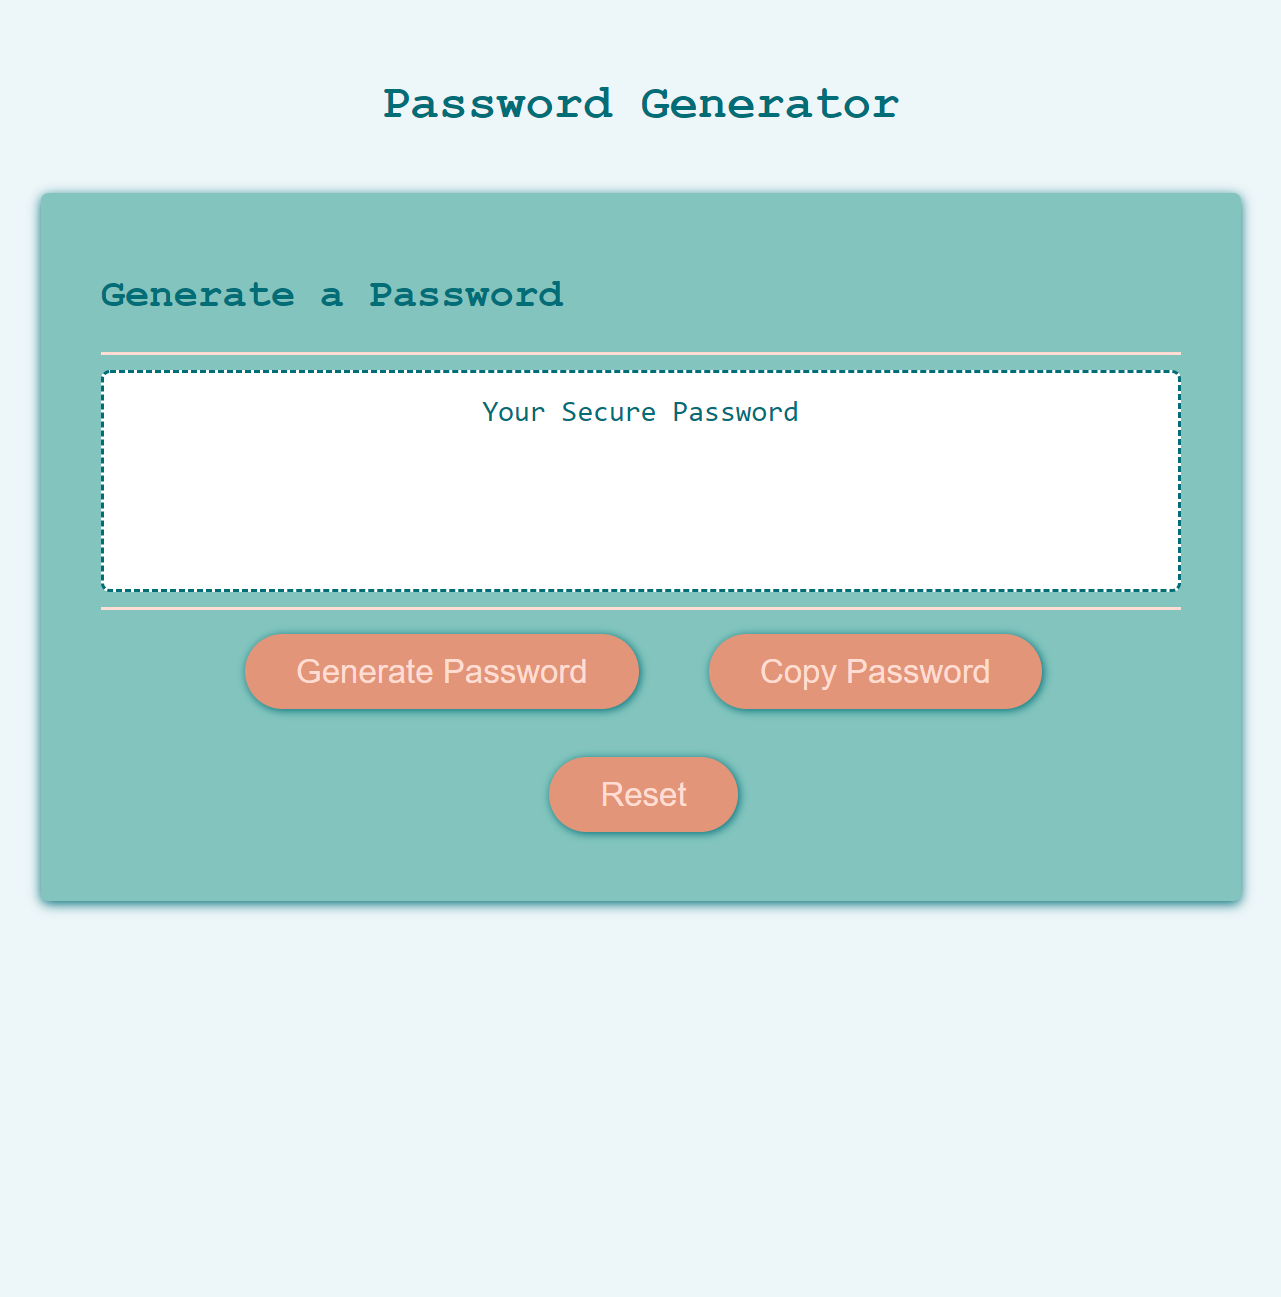
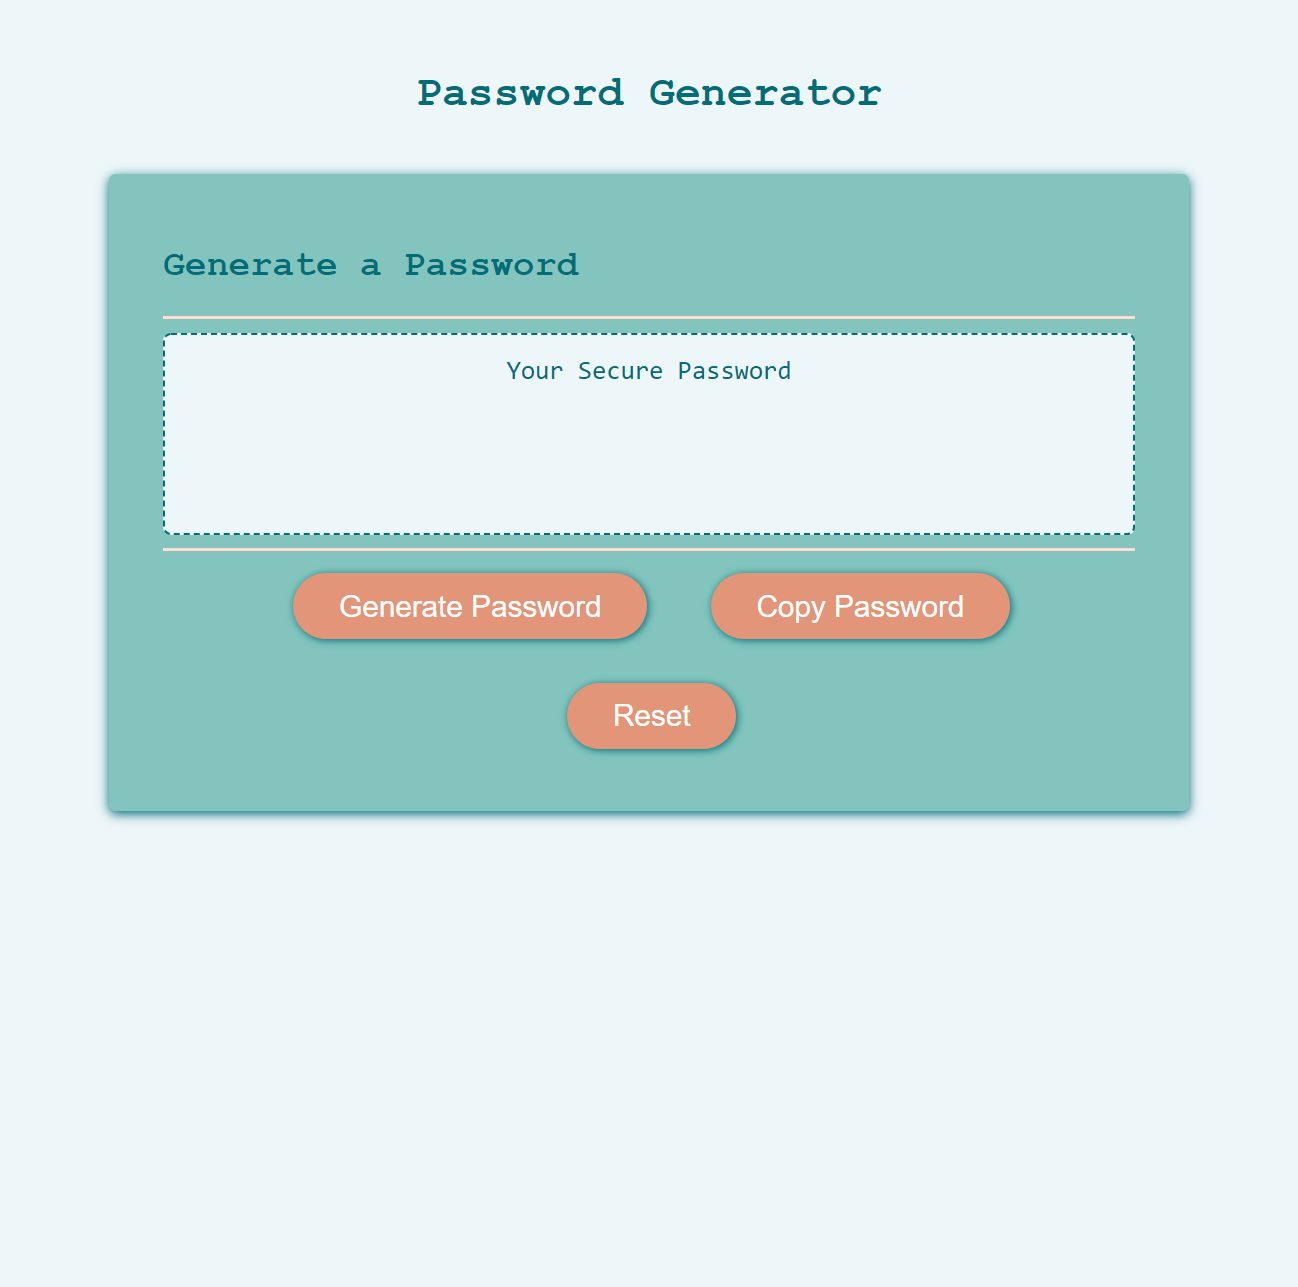
added validation to js if user put blanks for all y/n questions, fixed CSS font color for password

Changed region(s): [[0.0, 0.1243, 0.9992, 0.7148], [0.281, 0.0622, 0.7182, 0.0932]]

diff --git a/script.js b/script.js
@@ -45,6 +45,11 @@ function generatePassword() {
         generatePassword();
     }
 
+    if(includeLowercase === "" && includeUppercase === "" && includeNumbers === "" && includeSpecialChar === "") {
+      alert("You must choose 'Y' for at least one type of character to generate password. Please try again.");
+      generatePassword();
+  }
+
     var charactersInPassword = "";
     var countPasswordCharacters = passwordLength;
 
@@ -82,7 +87,7 @@ function generatePassword() {
 };
  //prompts for password length and performs data validation
  function passwordLengthFunction() {
-    passwordLength = prompt("How long do you want your password to be? Choose between 8-128 characters.");
+    passwordLength = prompt("How long do you want your password to be? (Choose between 8-128 characters)");
 
       if (!passwordLength) {
         return;
@@ -92,8 +97,6 @@ function generatePassword() {
         alert("You did not meet the criteria for password length, please try again.");
         passwordLengthFunction();
       } ;
-
-      
   
       console.log("This is the password length:");
       console.log(passwordLength); //checks the value of password length

diff --git a/style.css b/style.css
@@ -132,7 +132,8 @@ button[disabled] {
 }
 
 textarea {
-  color: var(--cool-grey);
+  background-color: var(--cool-grey);
+  color: var(--cobalt-turqoise);
 }
 
 ::placeholder{
